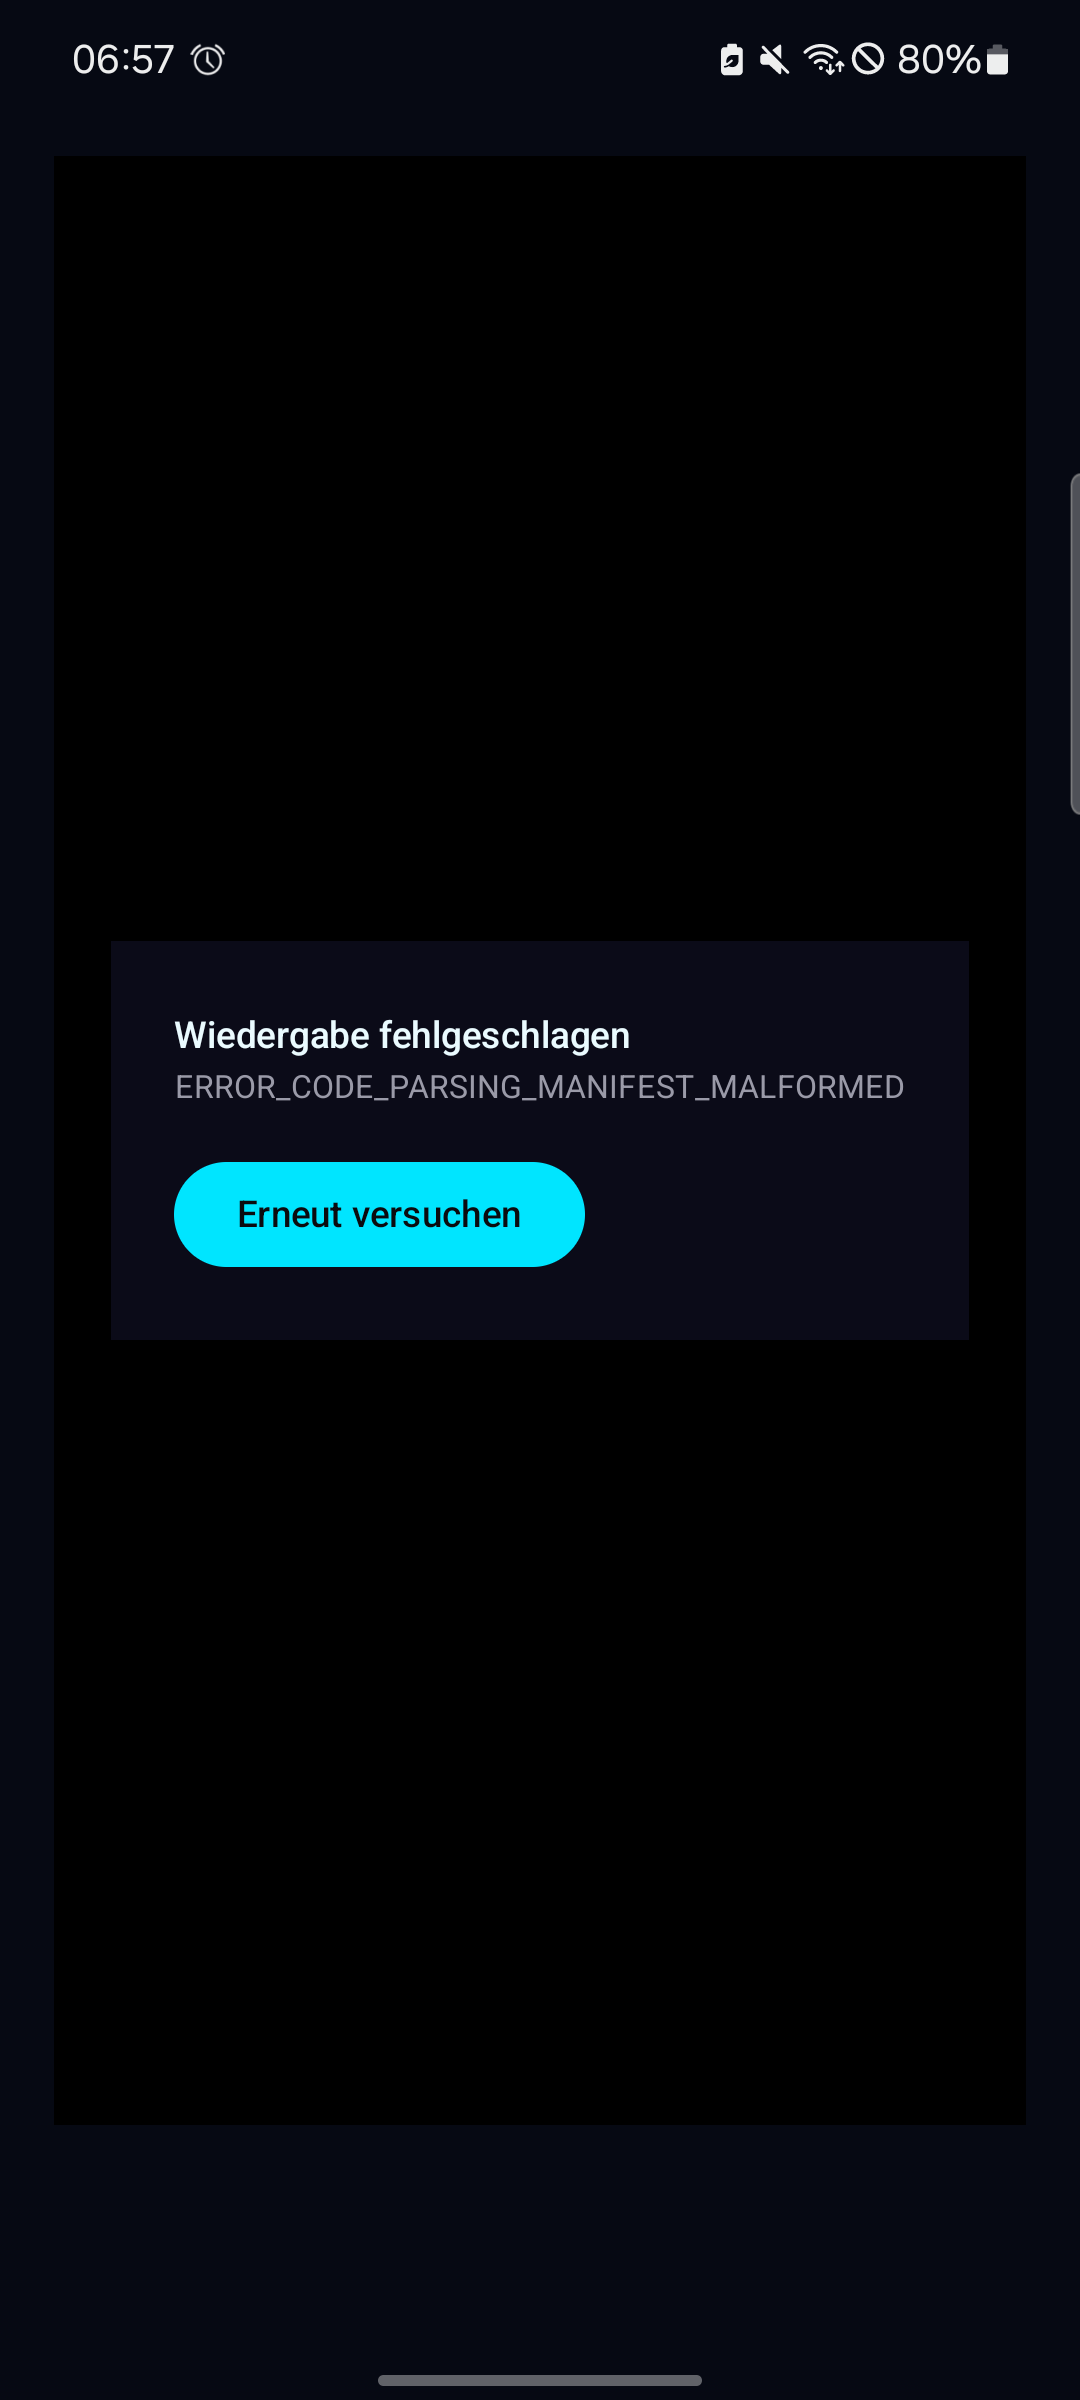
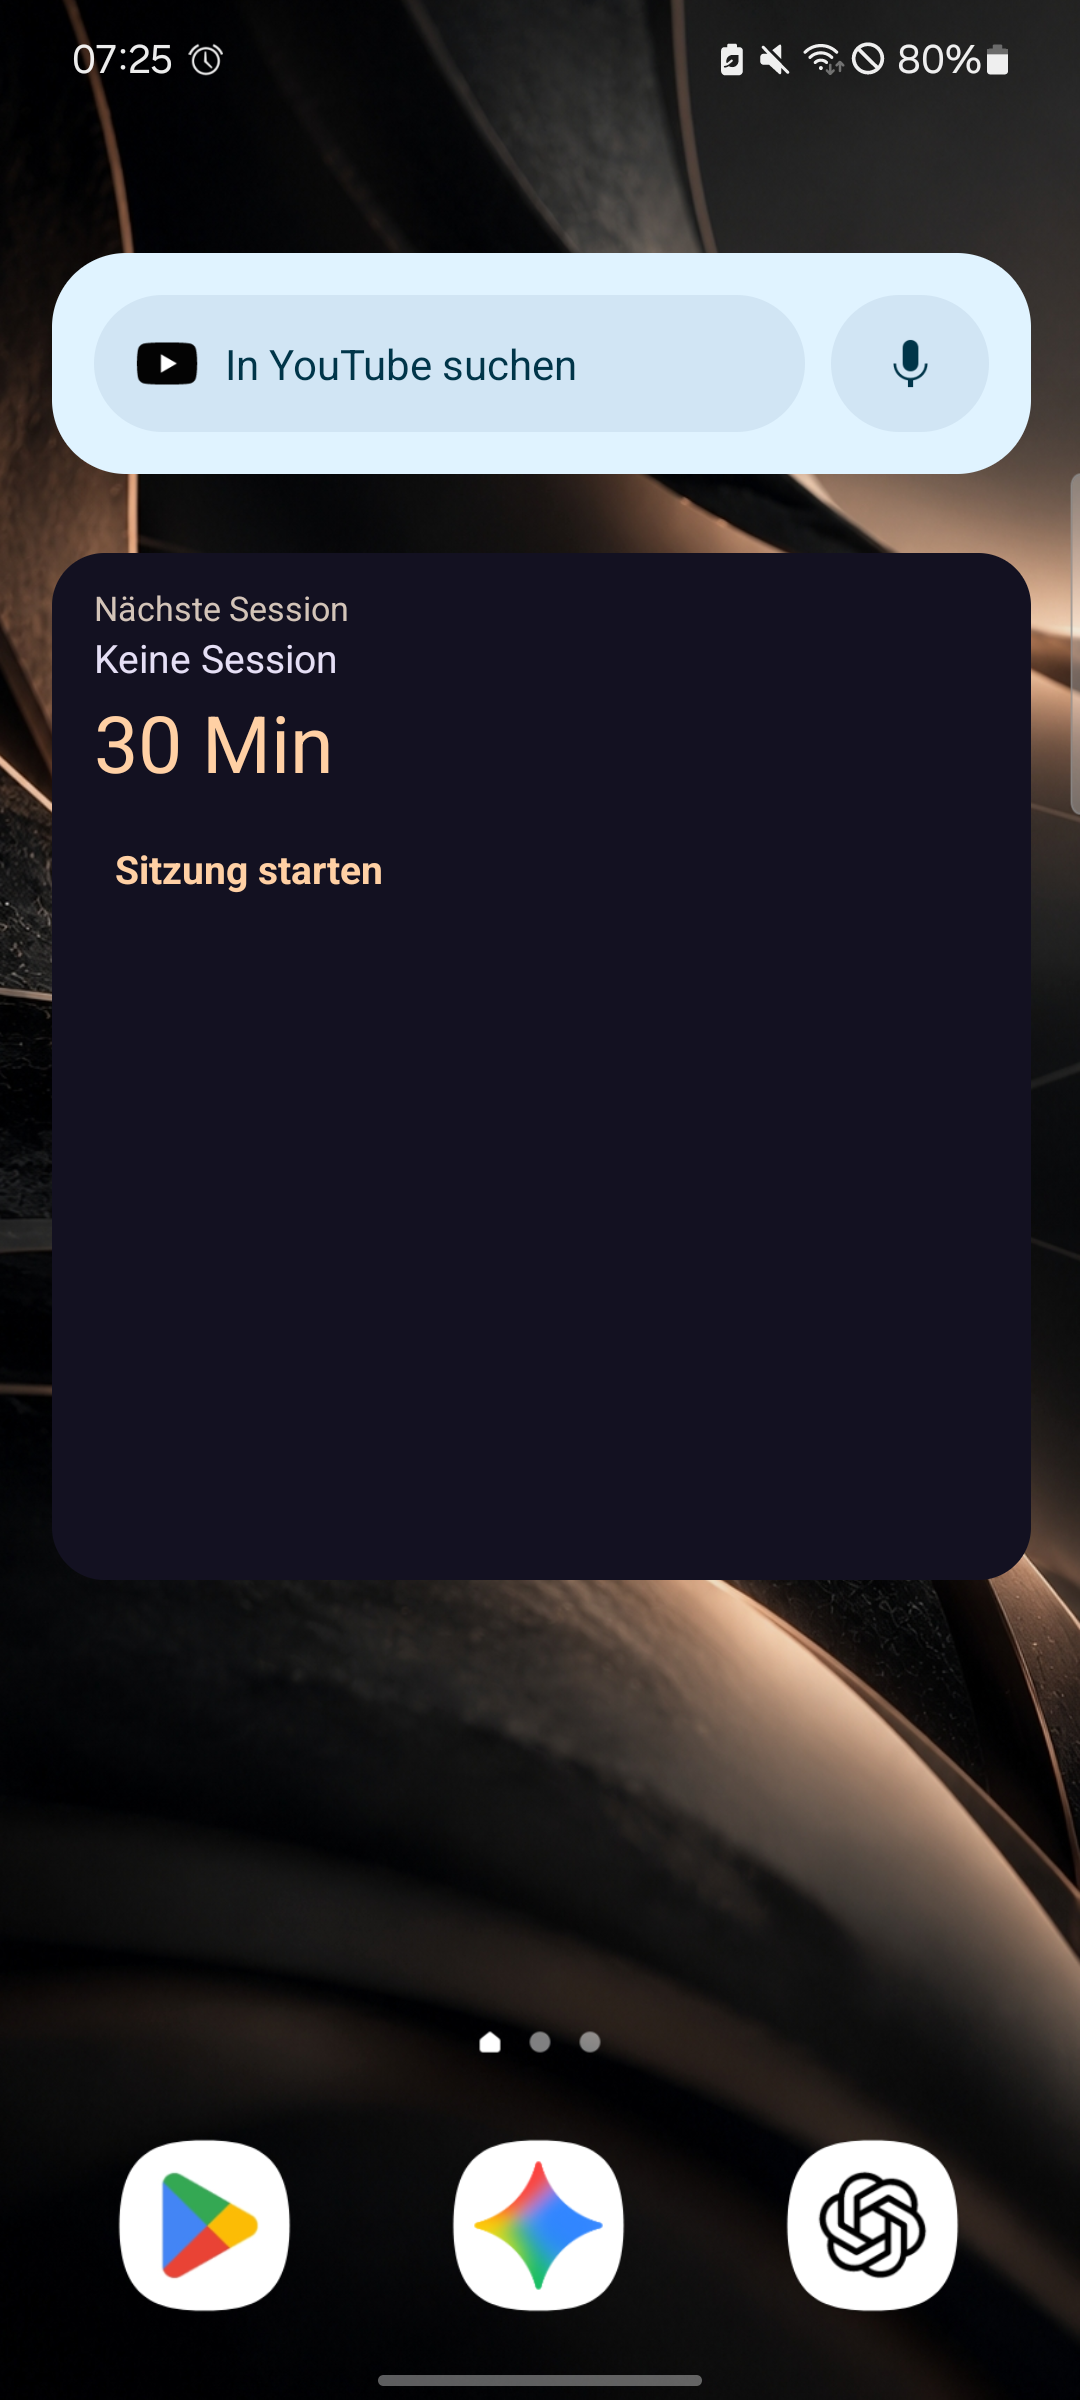
block-7: Player-Doku und Geraetebelege

diff --git a/docs/player/PLAYER.md b/docs/player/PLAYER.md
@@ -1,0 +1,64 @@
+# PLAYER.md — Overlay und D-Pad (Block 7)
+
+Stand: 2026-11-18 · Build `9d1acda` (APK `efd3226a…`) · Gerät SM-A525F
+
+## Overlay
+
+| Anforderung | Umsetzung |
+|---|---|
+| Auto-Hide nach 3 s | `LaunchedEffect(controlsVisible, interaction)` blendet Logo, Controls und Track-Panel nach 3000 ms aus |
+| Einblenden bei jeder Eingabe | `PlayerKeyRouter` setzt `controlsVisible=true` bei jedem Key-Down/Up |
+| Kein dauerhaftes HUD | Controls, Logo, Track-Panel und NavBar sind im Player ausgeblendet; nur Video + dezente Pufferlinie |
+| Quellenlabel nur 3 s | eigener `sourceVisible`-State mit 3000-ms-Timer |
+| Fokus-Ring 4 dp | `ControlButton` nutzt `tvFocusable(ringWidth = 4.dp)` |
+| Sprung-Feedback | 600 ms Gradient am linken/rechten Rand nach −10/+10 |
+| Pufferanzeige dezent | 2-dp-Linie mit 45 % Alpha, nur bei 1–99 % Puffer |
+
+## Tasten
+
+`MainActivity.dispatchKeyEvent` leitet jeden Key an `PlayerKeyRouter`. Grund:
+der Compose-Root verlor den Fokus, sobald die Media3-`PlayerView` attached war
+(gemessen: LEFT wirkte, OK/UP kamen nie an). Der Router ist fokusunabhängig.
+
+| Taste | Aktion |
+|---|---|
+| DPAD links | −10 s, Gradient links |
+| DPAD rechts | +10 s, Gradient rechts |
+| OK / Enter | Play/Pause |
+| DPAD hoch | Info-Panel (Audio/Untertitel/Tempo) ein/aus |
+| Zurück (1×) | Overlay schließen |
+| Zurück (2×) | Player verlassen (Detailseite) |
+
+`input keyevent` liefert auf dem A52 nur `ACTION_UP`; der Handler wertet
+Aktionen deshalb auf `ACTION_UP` aus (DOWN blendet nur ein).
+
+## Belege
+
+| Datei | Inhalt |
+|---|---|
+| [overlay-visible.png](overlay-visible.png) | Logo, Quelle „ARD Mediathek", Controls direkt nach Start |
+| [overlay-hidden.png](overlay-hidden.png) | nach 4 s: nur Video, keine NavBar, kein Label |
+| [pause-overlay.png](pause-overlay.png) | OK → pausiert, „Play"-Label, Fortschritt |
+| [seek-feedback.png](seek-feedback.png) | +10 s: Gradient rechts, Fokusring 4 dp auf „−10" |
+| [info-panel.png](info-panel.png) | DPAD hoch: Audio/Spur/Tempo |
+| [mp4-playback.png](mp4-playback.png) | MP4-Stream läuft (MIME-Fix), HUD aus |
+
+## Gefundene und behobene Defekte
+
+1. **Tasten kamen nicht an** — Compose-Fokus ging an die `PlayerView`.
+   Fix: `isFocusable=false` + Activity-Key-Routing.
+2. **Nur ACTION_UP** — der Handler reagierte auf DOWN; OK/UP taten nichts.
+3. **MP4 als HLS geöffnet** — ARD liefert teils MP4; der Player erzwang
+   `application/x-mpegURL` → `ERROR_CODE_PARSING_MANIFEST_MALFORMED`.
+   Fix: MIME aus der Endung (`.m3u8`/`.mp4`), sonst Inferenz durch Media3.
+4. **NavBar im Player** — dauerhaftes HUD; jetzt nur außerhalb des Players.
+5. **Countdown über Controls** — Countdown sitzt jetzt 160 dp über dem Boden.
+
+## Grenzen
+
+- Der Fokus-Ring wird an den Controls gezeigt; die D-Pad-Tasten wirken direkt,
+  nicht über Fokus-Navigation.
+- Screenshots auf dem A52; TV-Dichte 1,0 nicht separat geprüft.
+- Der 2×-Zurück-Pfad ist im Code und in der Gerätesitzung beobachtet
+  (erster Back → Overlay weg, zweiter → Detail); die finalen Screenshots
+  liegen nicht in allen Zwischenständen vor.
